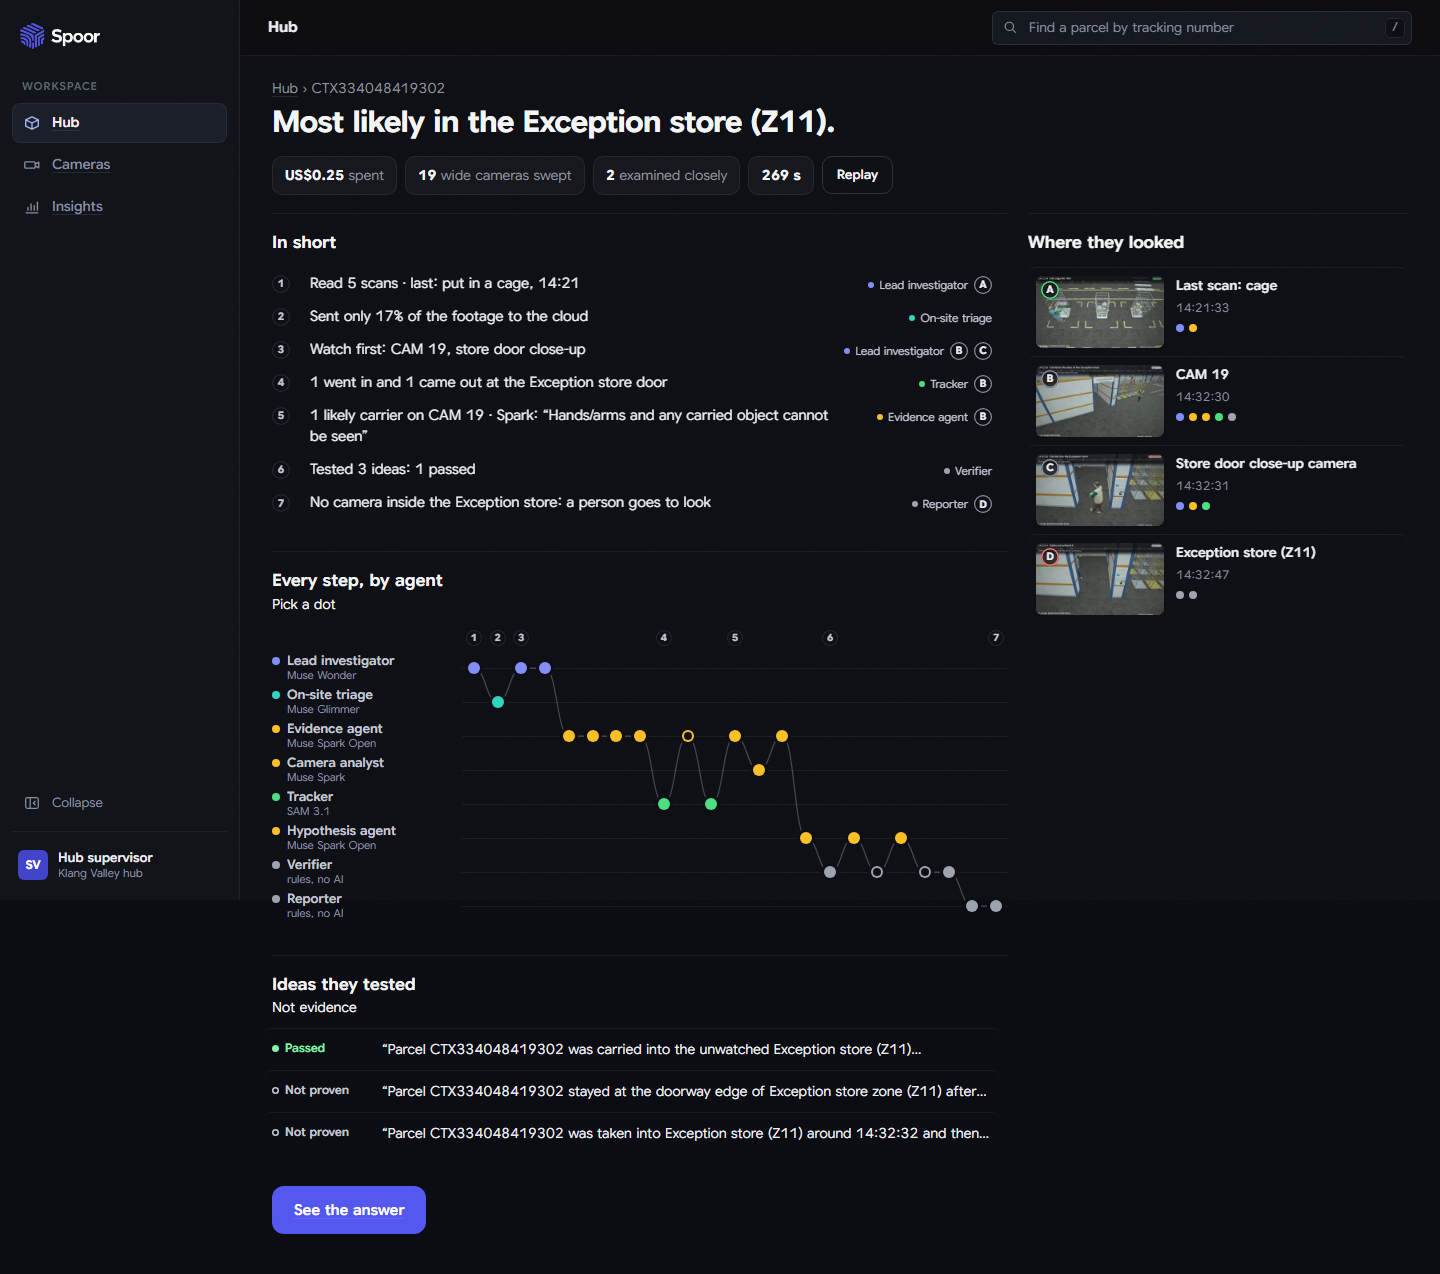
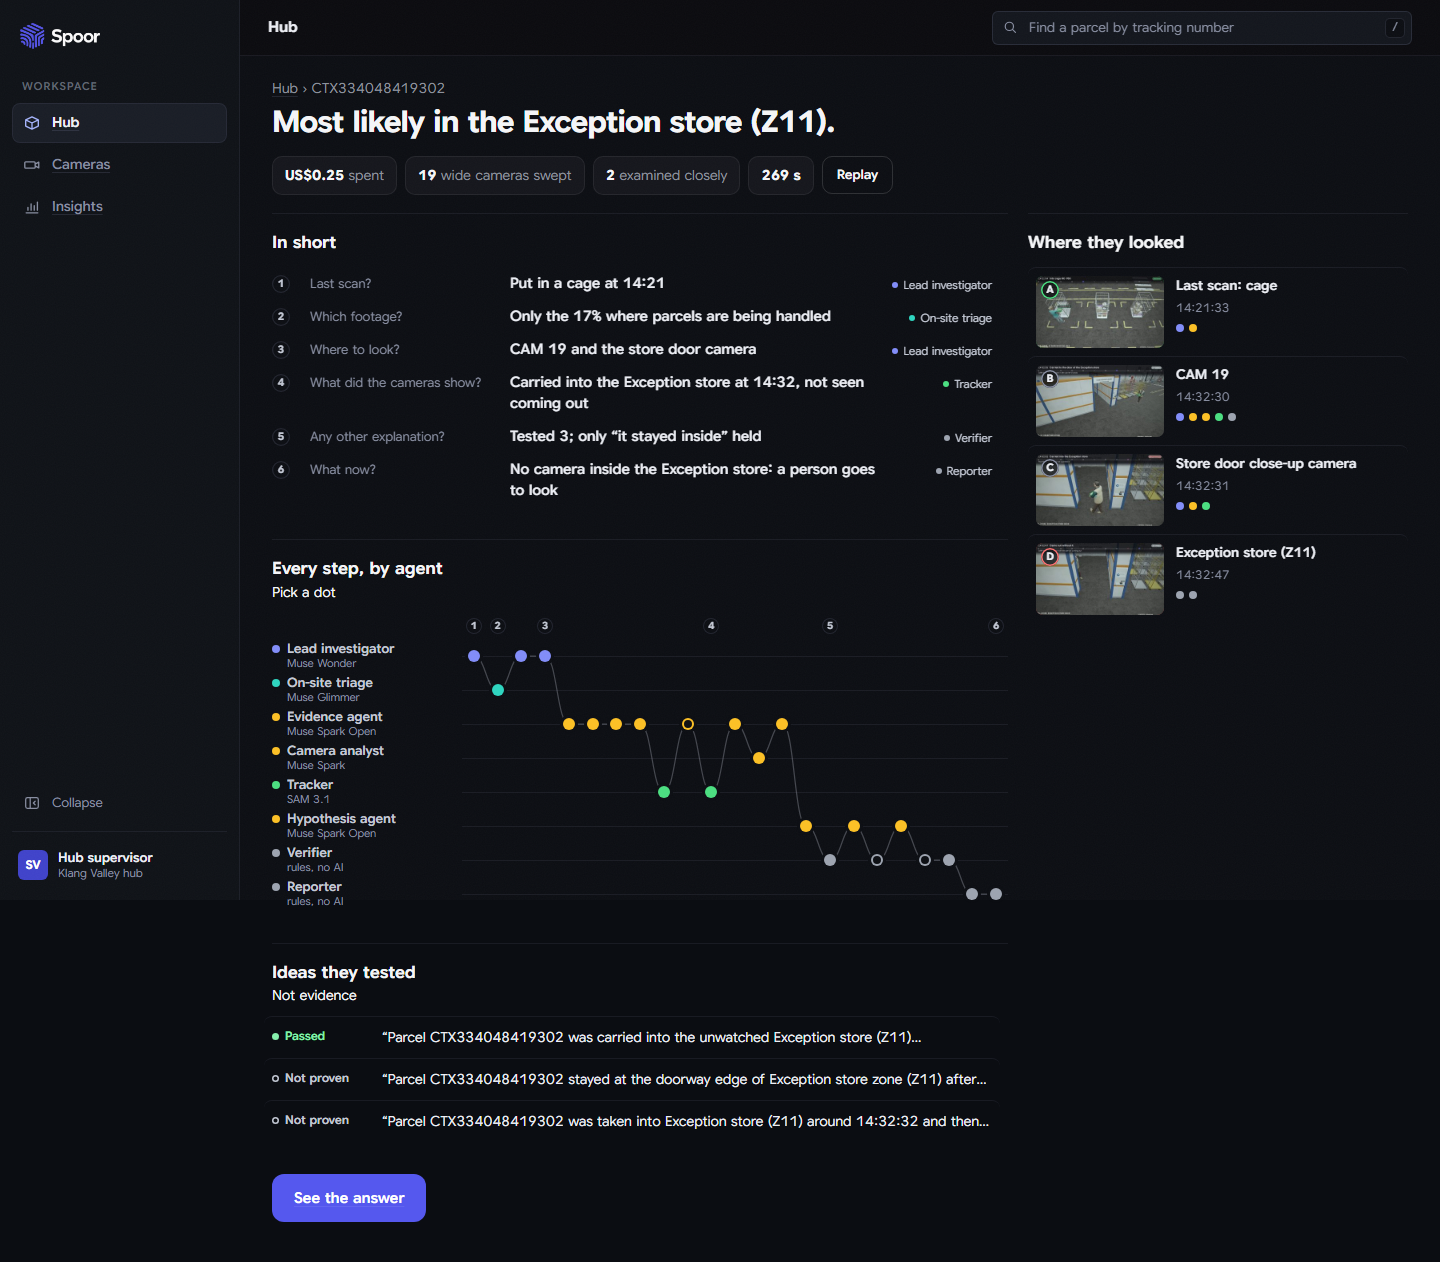
Investigate: In short as a detective's questions (last scan, which footage, where to look, what the cameras showed, other explanations, what now), each answered from the run's own steps

diff --git a/frontend/src/app/cases/[caseId]/investigate/page.tsx b/frontend/src/app/cases/[caseId]/investigate/page.tsx
@@ -42,7 +42,7 @@ const runTime = (t: number) => `+${Math.floor(t / 60)}:${String(Math.floor(t % 6
 
 const CLOSE: Record<string, string> = { UNLOAD: "Unload", TUNNEL: "Tunnel", CAGE_W: "Cage", CAGE_E: "Cage", STORE: "Store door", DOCK: "Dock", CHUTE: "Chute" };
 
-interface Beat { key: string; text: string; model: string; seq: number }
+interface Beat { key: string; q: string; text: string; model: string; seq: number }
 const first = (t: string) => t.split(/(?<=\.)\s/)[0].replace(/\.$/, "");
 const unparen = (t: string) => t.replace(/\s*\([^)]*\)/g, "").replace(/\.$/, "");
 
@@ -52,33 +52,34 @@ function storyline(steps: Step[], crew: RunView["crew"]): Beat[] {
   const model = (role: string) => crew.find((c) => c.role === role)?.model.replace(/\s*·.*$/, "") ?? "";
   const done = (tool: string) => steps.filter((s) => s.tool === tool && s.status === "done");
   const out: Beat[] = [];
-  const add = (key: string, s: Step | undefined, text: string, role = s?.role ?? "") => { if (s) out.push({ key, text, model: model(role), seq: s.seq }); };
+  const add = (key: string, s: Step | undefined, q: string, text: string, role = s?.role ?? "") => { if (s && text) out.push({ key, q, text, model: model(role), seq: s.seq }); };
+  // a detective's questions, each answered from the run's own steps and receipts (Rexton 3 Nov: a judge must follow it)
+  const cap = (t: string) => t.charAt(0).toUpperCase() + t.slice(1);
   const read = done("read_scans")[0];
   const rm = read?.text.match(/^Read (\d+) scans\. Last: (.+?) at (\d\d:\d\d)/);
-  add("read", read, rm ? `Read ${rm[1]} scans · last: ${rm[2]}, ${rm[3]}` : read ? unparen(read.text) : "");
+  add("read", read, "Last scan?", rm ? `${cap(rm[2])} at ${rm[3]}` : read ? unparen(read.text) : "");
   const tri = done("triage_clips")[0];
   const share = (tri?.receipt?.output as { sent_share?: number } | undefined)?.sent_share;
-  add("triage", tri, share != null ? `Sent only ${Math.round(share * 100)}% of the footage to the cloud` : tri ? first(tri.text) : "");
+  add("triage", tri, "Which footage?", share != null ? `Only the ${Math.round(share * 100)}% where parcels are being handled` : tri ? first(tri.text) : "");
   const plan = done("plan")[0], pick = done("pick_cameras")[0];
-  const cams = pick?.text.match(/:\s*(.+?)\.?$/)?.[1].replace(/CHK (\w+)/g, (_, k: string) => `${(CLOSE[k] ?? k).toLowerCase()} close-up`);
-  add("plan", plan, cams ? `Watch first: ${cams}` : plan ? first(plan.text) : "");
-  const doors = done("door_crossings"), tracked = done("sam_track");
-  const door = doors.at(-1)?.text.match(/^(.+?)(?: \(Z\d+\))?: (.+?) at its door/);
-  add("track", tracked[0], door ? `${door[2][0].toUpperCase()}${door[2].slice(1)} at the ${door[1]} door` : tracked[0] ? unparen(tracked[0].text) : "", "tracker");
-  const carrier = done("carrier_check")[0], looked = done("observe_clip");
-  // Spark's own words on the clip, up to their first clause: never a paraphrase of what it did not say
-  const said = looked.map((x) => (x.receipt?.output as { said?: string | null } | undefined)?.said).find(Boolean);
-  const words = said ? said.split(/[;.]\s|\s+in this\s/)[0].replace(/\.$/, "") : "";
-  const cm = carrier?.text.match(/^(.+?): (\d+) likely carriers?/);
-  add("carrier", carrier ?? looked[0], [cm ? `${cm[2]} likely carrier on ${cm[1]}` : carrier ? unparen(carrier.text) : "", words ? `Spark: “${words}”` : ""]
-    .filter(Boolean).join(" · "), "analyst");
+  const cams = pick?.text.match(/:\s*(.+?)\.?$/)?.[1].replace(/CHK (\w+)/g, (_, k: string) => `the ${(CLOSE[k] ?? k).toLowerCase()} camera`)
+    .replace(/, ([^,]+)$/, " and $1");
+  add("plan", pick ?? plan, "Where to look?", cams ?? (plan ? first(plan.text) : ""));
+  // what the cameras showed: the verifier's own finding (in at, not seen out), else the door count
+  const found = steps.find((s) => s.role === "verifier" && s.text.startsWith("Verified"));
+  const fm = found?.text.match(/carried in at (\d\d:\d\d)(?::\d\d)?, not seen coming out/);
+  const door = done("door_crossings").at(-1)?.text.match(/^(.+?)(?: \(Z\d+\))?: (.+?) at its door/);
+  const where = found?.text.match(/door of the (.+?)(?: \(Z\d+\))? at/)?.[1] ?? door?.[1];
+  // (placed at the tracking that saw it, so the story reads cameras first; the words are the verifier's finding)
+  if (fm) add("seen", done("sam_track").at(-1) ?? found, "What did the cameras show?", `Carried into the ${where} at ${fm[1]}, not seen coming out`);
+  else add("seen", done("sam_track")[0], "What did the cameras show?", door ? `${cap(door[2])} at the ${door[1]} door` : "", "tracker");
   const ideas = done("propose");
   const tests = steps.filter((s) => s.role === "verifier" && s.seq > (ideas[0]?.seq ?? Infinity) && /^(Passed|Unproven|Rejected)/.test(s.text));
-  const passed = tests.filter((s) => s.text.startsWith("Passed")).length;
-  add("ideas", tests[0], `Tested ${tests.length} idea${tests.length === 1 ? "" : "s"}: ${passed} passed`, "verifier");
+  const held = tests.filter((s) => s.text.startsWith("Passed")).map((s) => s.text.match(/\(tested: ([^)]*)\)/)?.[1]).filter(Boolean);
+  add("ideas", tests[0], "Any other explanation?", tests.length ? `Tested ${tests.length}; ${held.length ? `only “it ${held[0]}” held` : "none held"}` : "", "verifier");
   const ask = done("ask_a_person")[0] ?? done("create_search_task")[0];
   const am = ask?.text.match(/^No camera sees inside (?:the )?(.+?)(?: \(Z\d+\))?, so a person is asked to look/);
-  add("ask", ask, am ? `No camera inside the ${am[1]}: a person goes to look` : ask ? unparen(ask.text) : "");
+  add("ask", ask, "What now?", am ? `No camera inside the ${am[1]}: a person goes to look` : ask ? unparen(ask.text) : "");
   return out.sort((x, y) => x.seq - y.seq);
 }
 
@@ -263,15 +264,14 @@ export default function InvestigatePage({ params }: { params: Promise<{ caseId: 
               <ol className="iv-story" aria-label="The run in short">
                 {story.map((b, i) => {
                   const st = steps.find((x) => x.seq === b.seq);
-                  const at = st ? placesOf(st) : [];
                   return (
                     <li key={b.key} className="iv-story-row" data-now={!done && i === story.length - 1 ? "" : undefined}>
                       <button type="button" className="iv-story-btn" onClick={() => setPicked(b.seq)} aria-pressed={focus?.seq === b.seq}>
                         <span className="iv-story-n">{i + 1}</span>
+                        <span className="iv-story-q">{b.q}</span>
                         <span className="iv-story-text">{b.text}</span>
                         <span className="iv-story-meta">
                           {st && <span className="iv-chip" data-fam={fam(st.model)}>{st.who}</span>}
-                          {at.map((k) => <b key={k} className="iv-story-at" title={places.find((p) => p.key === k)?.label}>{nOf(k)}</b>)}
                         </span>
                       </button>
                     </li>

diff --git a/frontend/src/app/cases/[caseId]/investigate/investigate.css b/frontend/src/app/cases/[caseId]/investigate/investigate.css
@@ -207,3 +207,12 @@
 .iv-place-name { font-size: 13.5px; }
 .iv-places li + li .iv-place { border-top-color: var(--tb-line, rgba(255, 255, 255, 0.06)); }
 .iv-story-btn { padding: 6px 8px; }
+
+/* "In short" as a detective's questions: the question muted on the left, the answer, who answered it */
+.iv-story-btn { grid-template-columns: 22px 184px minmax(0, 1fr) auto; align-items: baseline; }
+.iv-story-q { font-size: 13px; color: var(--tb-mute, #8b909b); }
+.iv-story-text { font-size: 14.5px; font-weight: 550; }
+@media (max-width: 760px) {
+  .iv-story-btn { grid-template-columns: 22px minmax(0, 1fr); }
+  .iv-story-q, .iv-story-text, .iv-story-meta { grid-column: 2; }
+}

diff --git a/review/log.md b/review/log.md
@@ -514,3 +514,5 @@
 2026-11-03 02:20 · ui · Rexton: Answer's Customer asked box removed (duplicated the header chip; holding reply was a fixed template); the header chip carries the wait, the customer's words on hover. Shot review/shots/tue/run2/answer_after_cu.png.
 2026-11-03 02:26 · reviewer-night · check: agent active (02:20 Answer: Customer asked box removed; 02:14 player per-step frames + custom controls). Rexton still awake directing. Nothing blocked.
 2026-11-03 02:31 · ui · Investigate redesign (Rexton, emil-design-eng): who did what as agent lanes from the run's own steps (dot per step, hollow = could not run / not proven, baton line), focus card (run time, agent, model, tool words, text, numbered places), plan zoomed to the places (HubPlan fitStops) with per-place agent chips. Template ids hidden. Shots review/shots/tue/run2/agents_*.png. Bake 6 gates: same pre-existing static pile overlap as accepted W1q2; door-clip deep rows 38 vs 2, every one hidden behind the worker's own body from CHK_UNLOAD (frame review qa/review/w1s/door_deep.jpg), so rendering.
+2026-11-03 02:58 · reviewer-night · check: agents-run page reviewed, 5 fixes in TO_AGENT.md (summary Spark quote, shell height, map label clipping, per-model lane colours, hollow-dot legend). Agent active (last commit 02:41).
+2026-11-03 03:14 · render · W1 bake 6 rendered on Modal (CHK_UNLOAD, CAM_02, CHK_CHUTE, CAM_11, CAM_06; GPU fallback L4/A10G after 29 min with no L4; ~US$0.32). Frame review: door both workers working (mate squats to the floor stack and back), chute C12 parcel lands on the bag and stays visible. Old W1 clips of those 4 cameras purged (DB backup spoor.pre-w1s6.db), new 1920x1086 copies ingested. Handshakes (US$0.06): C12 divert on CAM_11 outlined; door not found: SAM's box pass follows the carton in the hands then snaps back to the wall (the picking worker stands in front of the pick spot), and never picks up the carton on the boom: no handled track, so no number at the door (rule kept strict). CAM_06 range was wrong (my estimate: the induct is at window frame ~790, the clip began at 785; the boarding in it was the next parcel): re-rendering CAM_06 765-865.
